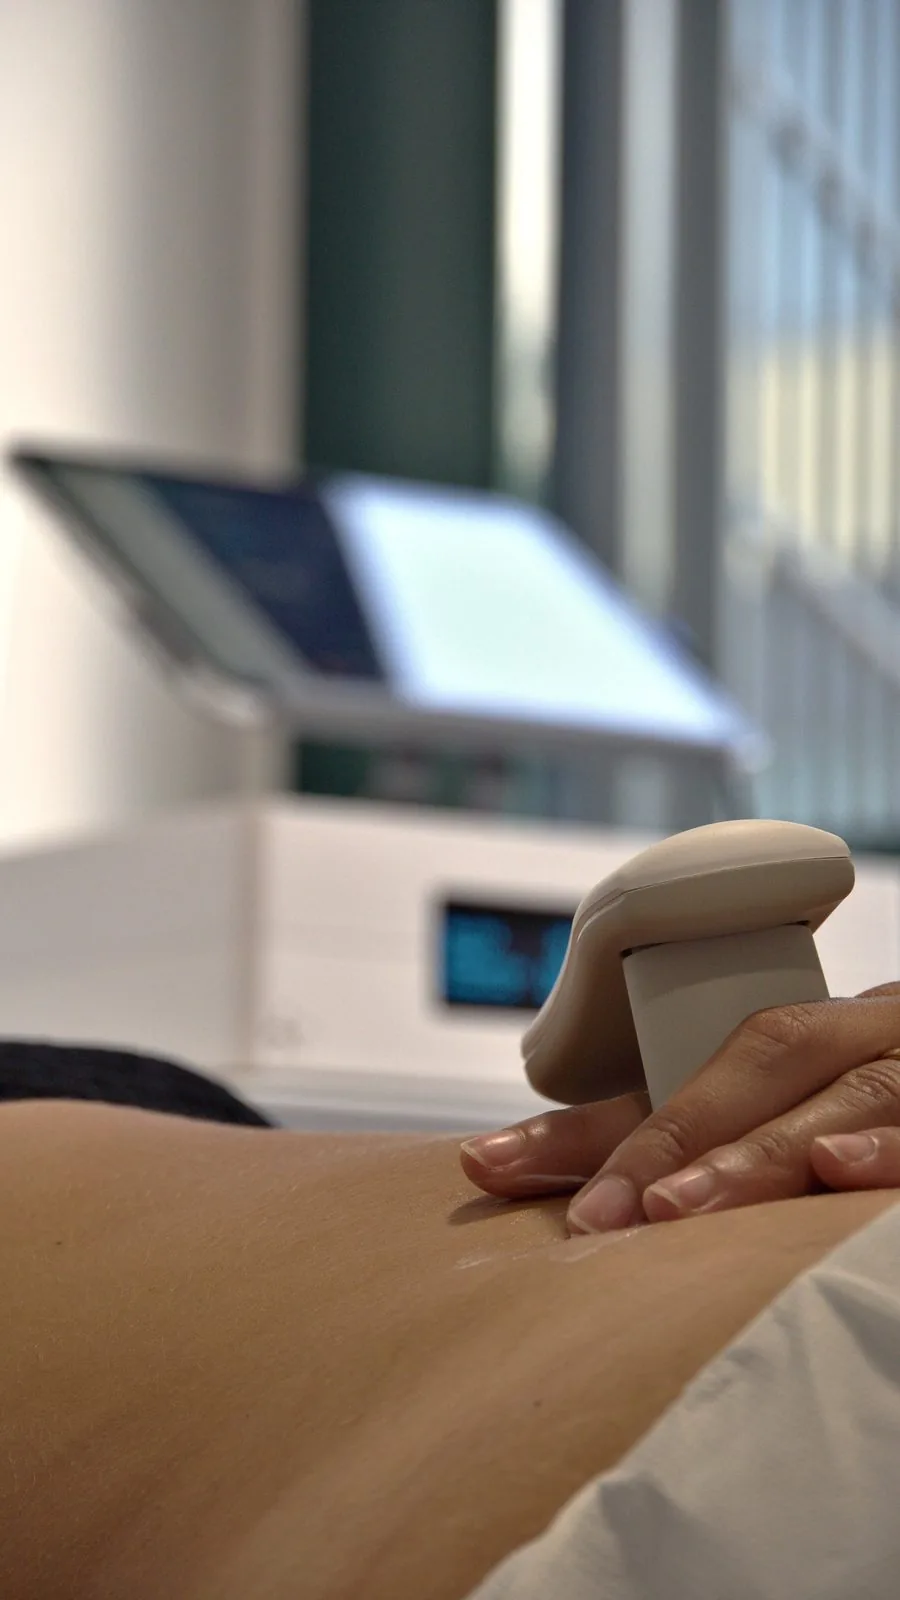
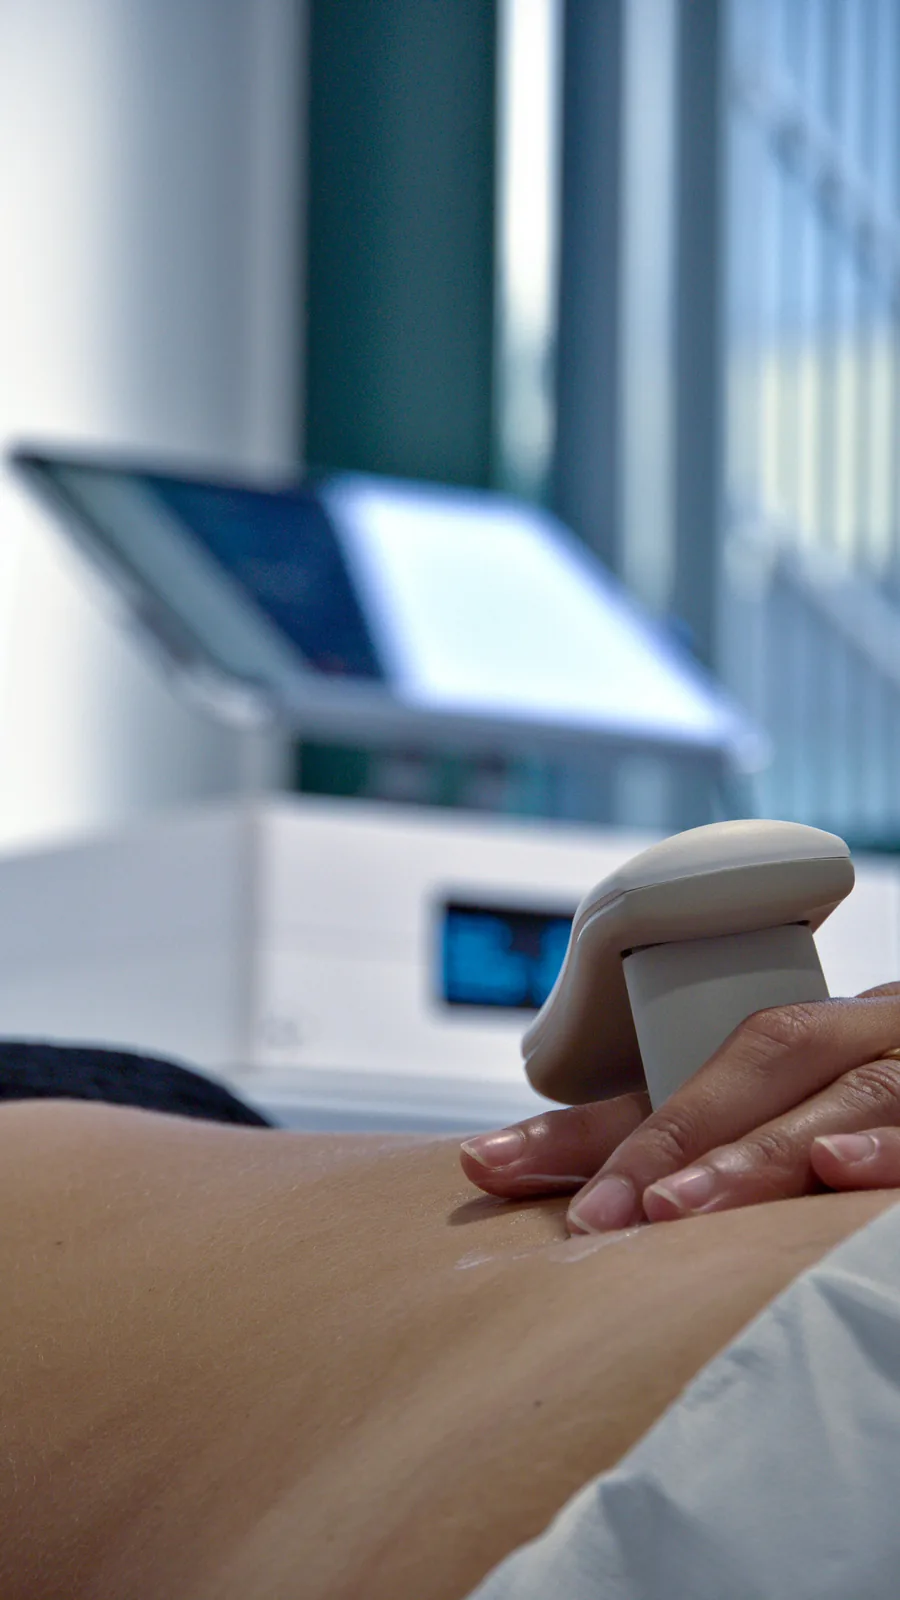
Foto col colore nuovo, e ognuna al suo posto
Le 26 foto del sito sostituite con l'export colore nuovo (EXPORT COLOR),
stessa conversione: WebP, 1600px lato lungo, qualita 82.

- Veronica: ritratto DSC9558, lo scatto nuovo dell'export.
- Osteopatia: ora mostra la scena di osteopatia craniale (nuova sul sito),
  perche la foto cervicale DSC9899 non e nell'export nuovo.
- Home, 'Da dove vuoi partire': tre card di fila avevano lo stesso ginocchio.
  Ora schiena, caviglia, ginocchio, tecar.
- Chi siamo: la foto grande ripeteva quella dell'hero subito sopra.
- Hero: l'inquadratura tagliava i volti all'altezza degli occhi.

Resta col colore vecchio osteopatia-cervicale.webp (in attesa dell'export).

diff --git a/src/data/site.ts b/src/data/site.ts
@@ -42,7 +42,8 @@ export const foto = {
   valutazionePosturaleProfilo: '/foto/valutazione-posturale-profilo.webp', // volto visibile
   osteopatiaCranialeDettaglio: '/foto/osteopatia-craniale-dettaglio.webp', // volto visibile
   osteopatiaCranialeManiCapo: '/foto/osteopatia-craniale-mani-capo.webp', // volto visibile
-  osteopatiaCervicale: '/foto/osteopatia-cervicale.webp', // volto visibile
+  osteopatiaCervicale: '/foto/osteopatia-cervicale.webp', // volto visibile — ⚠ ancora col colore vecchio: manca nell'export nuovo
+  osteopatiaCranialeScena: '/foto/osteopatia-craniale-scena.webp', // volto visibile
   tecarFianco: '/foto/tecar-fianco.webp',
   tecarFisiowarm: '/foto/tecar-fisiowarm.webp',
   laserSpalla: '/foto/laser-spalla.webp',
@@ -388,7 +389,7 @@ export const trattamenti: Trattamento[] = [
     sottotitolo: 'Un approccio che guarda tutto il corpo, non solo il punto in cui senti male.',
     categoria: 'tornare-a-muoverti',
     sintomi: ['mal di schiena', 'lombalgia', 'cervicale', 'cefalea', 'sciatica', 'vertigini'],
-    image: foto.osteopatiaCervicale,
+    image: foto.osteopatiaCranialeScena,
   },
   {
     slug: 'terapia-manuale',
@@ -683,7 +684,8 @@ export const porte: Porta[] = [
       'Recupero dopo un intervento',
       'Postura e rieducazione',
     ],
-    image: immagini.riabilitazione,
+    // Una foto diversa per ogni porta: prima erano tre card di fila con lo stesso ginocchio.
+    image: immagini.manuale,
     accent: 'secondary',
     to: '/servizi',
   },
@@ -699,7 +701,7 @@ export const porte: Porta[] = [
       'Recupero neuromotorio',
       'Prevenzione delle cadute',
     ],
-    image: immagini.riabilitazione,
+    image: foto.terapiaManualeCaviglia,
     accent: 'secondary',
     to: '/servizi',
   },

diff --git a/src/components/sections/AboutSection.tsx b/src/components/sections/AboutSection.tsx
@@ -26,8 +26,8 @@ export default function AboutSection({ overlap = false, cta = { label: 'Scopri d
           >
             <div className="grid grid-cols-2 gap-4">
               <img
-                src={immagini.trattamento}
-                alt="Benessere e salute"
+                src={immagini.calma}
+                alt="Una fisioterapista sorride durante un trattamento della schiena"
                 className="w-full h-full object-cover rounded-3xl min-h-[400px]"
               />
               <div className="flex flex-col gap-4">

diff --git a/src/components/sections/Hero.tsx b/src/components/sections/Hero.tsx
@@ -20,7 +20,7 @@ export default function Hero() {
           src={immagini.trattamento}
           alt=""
           aria-hidden="true"
-          className="w-full h-full object-cover"
+          className="w-full h-full object-cover object-[center_15%]"
         />
         <div className="absolute inset-0 bg-gradient-to-b from-brand-dark/85 via-brand-dark/55 to-brand-primary/25"></div>
         <div className="absolute inset-0 bg-gradient-to-r from-brand-dark/80 via-brand-dark/30 to-transparent"></div>

diff --git a/src/components/sections/EvaHero.tsx b/src/components/sections/EvaHero.tsx
@@ -65,7 +65,7 @@ function Sfondo() {
         src={immagini.trattamento}
         alt=""
         aria-hidden="true"
-        className="absolute inset-0 h-full w-full object-cover"
+        className="absolute inset-0 h-full w-full object-cover object-[center_15%]"
       />
       <div className="absolute inset-0 bg-brand-dark/88"></div>
       <div className="absolute inset-0 bg-gradient-to-t from-brand-dark via-brand-dark/55 to-brand-dark/75"></div>
